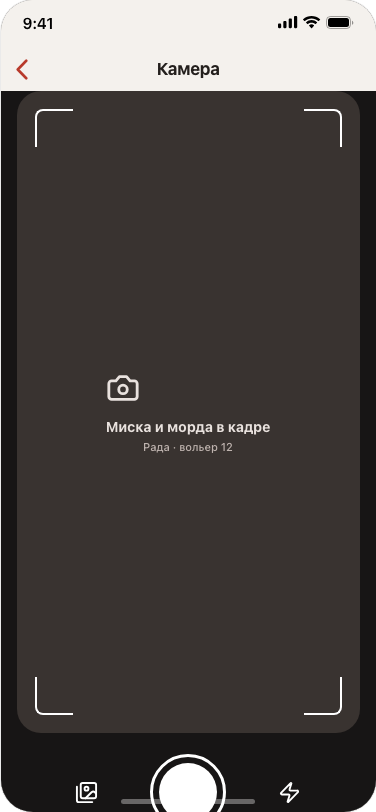
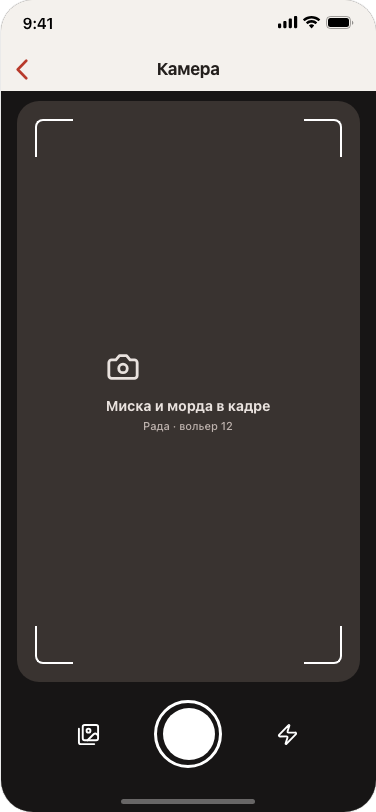
Fix Transfer camera layout

diff --git a/platform/concepts/smena/styles.css b/platform/concepts/smena/styles.css
@@ -34,7 +34,7 @@
 .s-observation-head{padding:4px 2px 17px}.s-observation-head span{color:#895f55;font:var(--s-caption)}.s-observation-head h2{margin-top:5px;font:var(--s-screen-title)}.s-observation-head p{margin-top:4px;color:var(--s-text-secondary);font:var(--s-secondary)}.s-compare{display:grid;grid-template-columns:1fr auto 1fr;gap:12px;align-items:center;padding:17px;border-radius:20px;background:#fff}.s-compare>div{display:grid;gap:4px}.s-compare small{color:var(--s-text-secondary);font:600 10px/14px var(--face)}.s-compare strong{font:750 15px/19px var(--face)}.s-compare>span{color:#aaa19c}.s-compare i{display:block;height:5px;border-radius:4px;background:#6f997b;font-style:normal}.s-compare i.is-low{width:50%;background:var(--s-accent)}.s-observation-note{margin:12px 0 0;padding:17px;border-left:3px solid var(--s-accent);color:#443b37;font:650 15px/21px var(--face)}.s-followup{display:grid;gap:3px;margin-top:12px;padding:15px 17px;border-radius:17px;background:#e8e2de}.s-followup span,.s-followup small{color:var(--s-text-secondary);font:600 10px/14px var(--face)}.s-followup b{font:750 14px/18px var(--face)}
 .s-compare i.is-high{width:92%}
 .s-observation-context{display:grid;grid-template-columns:42px 1fr;gap:10px;align-items:center;margin-bottom:14px}.s-observation-context b,.s-observation-context small{display:block}.s-observation-context b{font:700 14px/18px var(--face)}.s-observation-context small{color:var(--s-text-secondary);font:500 11px/15px var(--face)}.s-note-field{display:grid;gap:7px}.s-note-field>span{color:#895f55;font:var(--s-caption)}.s-note-field textarea{width:100%;height:112px;padding:14px;border:0;border-radius:17px;resize:none;background:#fff;color:var(--s-text);font:650 16px/22px var(--face);box-sizing:border-box}.s-fact-types{margin-top:9px}.s-media-actions{display:grid;grid-template-columns:repeat(3,1fr);gap:7px}.s-media-actions button{display:grid;justify-items:start;min-height:92px;padding:12px;border:0;border-radius:15px;background:#fff;color:inherit;text-align:left}.s-media-actions svg{width:22px;height:22px;color:var(--s-accent)}.s-media-actions span{align-self:end}.s-media-actions b,.s-media-actions small{display:block}.s-media-actions b{font:700 11px/15px var(--face)}.s-media-actions small{color:var(--s-text-secondary);font:500 10px/14px var(--face)}
-.s-camera-screen{background:var(--s-bg)}.s-camera-screen .navbar{background:var(--s-bg);color:var(--s-text)}.s-camera-screen .navbar .title{color:var(--s-text)}.s-camera-body{display:grid;grid-template-rows:1fr 118px;min-height:calc(100% - var(--nav-h));background:#171515;color:#fff}.s-viewfinder{position:relative;display:grid;place-items:center;margin:0 16px 8px;border-radius:24px;background:#393330}.s-viewfinder>div{text-align:center;color:#e9e2de}.s-viewfinder svg{width:34px;height:34px}.s-viewfinder b,.s-viewfinder small{display:block}.s-viewfinder b{margin-top:13px;font:700 14px/18px var(--face)}.s-viewfinder small{margin-top:3px;color:#bfb4af;font:500 11px/15px var(--face)}.s-frame-corner{position:absolute;width:38px;height:38px;border-color:#fff;border-style:solid}.s-frame-corner.c1{left:18px;top:18px;border-width:2px 0 0 2px;border-radius:8px 0 0}.s-frame-corner.c2{right:18px;top:18px;border-width:2px 2px 0 0;border-radius:0 8px 0 0}.s-frame-corner.c3{left:18px;bottom:18px;border-width:0 0 2px 2px;border-radius:0 0 0 8px}.s-frame-corner.c4{right:18px;bottom:18px;border-width:0 2px 2px 0;border-radius:0 0 8px}.s-camera-controls{display:grid;grid-template-columns:1fr 88px 1fr;align-items:center;padding:8px 28px 24px}.s-camera-controls button{display:grid;place-items:center;justify-self:center;width:44px;height:44px;border:0;background:transparent;color:#fff}.s-camera-controls svg{width:23px;height:23px}.s-camera-controls .s-shutter{width:76px;height:76px;border:3px solid #fff;border-radius:50%}.s-shutter i{width:58px;height:58px;border-radius:50%;background:#fff}.s-camera-screen .home-ind{background:#fff}
+.s-camera-screen{background:var(--s-bg)}.s-camera-screen .navbar{background:var(--s-bg);color:var(--s-text)}.s-camera-screen .navbar .title{color:var(--s-text)}.s-camera-body{display:grid;flex:1;min-height:0;grid-template-rows:minmax(0,1fr) calc(96px + var(--safe-bottom));background:#171515;color:#fff}.s-viewfinder{position:relative;display:grid;place-items:center;margin:10px 16px 0;border-radius:22px;background:#393330}.s-viewfinder>div{text-align:center;color:#e9e2de}.s-viewfinder svg{width:34px;height:34px}.s-viewfinder b,.s-viewfinder small{display:block}.s-viewfinder b{margin-top:13px;font:700 14px/18px var(--face)}.s-viewfinder small{margin-top:3px;color:#bfb4af;font:500 11px/15px var(--face)}.s-frame-corner{position:absolute;width:38px;height:38px;border-color:#fff;border-style:solid}.s-frame-corner.c1{left:18px;top:18px;border-width:2px 0 0 2px;border-radius:8px 0 0}.s-frame-corner.c2{right:18px;top:18px;border-width:2px 2px 0 0;border-radius:0 8px 0 0}.s-frame-corner.c3{left:18px;bottom:18px;border-width:0 0 2px 2px;border-radius:0 0 0 8px}.s-frame-corner.c4{right:18px;bottom:18px;border-width:0 2px 2px 0;border-radius:0 0 8px}.s-camera-controls{display:grid;grid-template-columns:1fr 80px 1fr;align-items:center;padding:8px 28px var(--safe-bottom)}.s-camera-controls button{display:grid;place-items:center;justify-self:center;width:44px;height:44px;border:0;background:transparent;color:#fff}.s-camera-controls svg{width:23px;height:23px}.s-camera-controls .s-shutter{width:68px;height:68px;border:3px solid #fff;border-radius:50%}.s-shutter i{width:52px;height:52px;border-radius:50%;background:#fff}.s-camera-screen .home-ind{background:#fff}
 .s-library-head{display:flex;justify-content:space-between;align-items:end;padding:4px 2px 14px}.s-library-head span{color:#895f55;font:var(--s-caption)}.s-library-head h2{margin-top:4px;font:750 19px/23px var(--face)}.s-library-head strong{color:var(--s-accent);font:700 11px/15px var(--face)}.s-photo-grid{display:grid;grid-template-columns:repeat(3,1fr);gap:3px}.s-photo-grid button{position:relative;aspect-ratio:1;border:0;background:#d8cdc4;color:#5e5652}.s-photo-grid button:nth-child(2),.s-photo-grid button:nth-child(6){background:#c5b7ad}.s-photo-grid button:nth-child(3),.s-photo-grid button:nth-child(4){background:#ded4cc}.s-photo-grid button span{position:absolute;left:8px;bottom:7px;padding:3px 6px;border-radius:7px;background:rgba(35,31,29,.72);color:#fff;font:650 9px/12px var(--face)}.s-photo-grid button i{position:absolute;right:7px;top:7px;display:grid;place-items:center;width:22px;height:22px;border-radius:50%;background:var(--s-accent);color:#fff;font:700 12px/1 var(--face);font-style:normal}.s-photo-grid button.is-selected:after{content:"";position:absolute;inset:0;border:3px solid var(--s-accent)}.s-selected-photo{display:flex;align-items:center;justify-content:space-between;margin-top:13px;padding:13px 2px}.s-selected-photo b,.s-selected-photo small{display:block}.s-selected-photo b{font:700 13px/17px var(--face)}.s-selected-photo small{color:var(--s-text-secondary);font:500 11px/15px var(--face)}.s-selected-photo button{min-height:40px;padding:0 16px;border:0;border-radius:13px;background:var(--s-accent);color:#fff;font:700 13px/17px var(--face)}
 .s-recorder{text-align:center;padding:10px 0 18px}.s-recorder>span{color:#895f55;font:var(--s-caption)}.s-mic-orb{display:grid;place-items:center;width:90px;height:90px;margin:30px auto 15px;border-radius:50%;background:var(--s-accent);color:#fff;box-shadow:0 0 0 12px var(--s-accent-soft)}.s-mic-orb svg{width:35px;height:35px}.s-recorder>strong{font:750 28px/32px var(--mono)}.s-wave{display:flex;align-items:center;justify-content:center;gap:4px;height:42px;margin-top:8px}.s-wave i{width:3px;border-radius:3px;background:#c7bbb5;font-style:normal}.s-wave i:nth-child(1),.s-wave i:nth-child(9){height:8px}.s-wave i:nth-child(2),.s-wave i:nth-child(8){height:16px}.s-wave i:nth-child(3),.s-wave i:nth-child(7){height:25px}.s-wave i:nth-child(4),.s-wave i:nth-child(6){height:34px}.s-wave i:nth-child(5){height:20px}.s-recorder p{color:var(--s-text-secondary);font:500 12px/17px var(--face)}.s-record-action{display:grid;grid-template-columns:38px 1fr;column-gap:10px;align-items:center;width:100%;min-height:62px;padding:11px 14px;border:0;border-radius:17px;background:#302a27;color:#fff;text-align:left}.s-record-action>span{grid-row:1/3;width:38px;height:38px;border-radius:50%;background:var(--s-accent)}.s-record-action b{align-self:end;font:700 13px/17px var(--face)}.s-record-action small{align-self:start;color:#cfc6c1;font:500 11px/15px var(--face)}
 .s-sync-status{display:grid;grid-template-columns:54px 1fr;gap:13px;align-items:center;padding:16px;border-radius:20px;background:#dfece3;color:#365944}.s-sync-status svg{width:42px;height:42px}.s-sync-status span{font:600 10px/14px var(--face)}.s-sync-status h2{margin-top:2px;font:750 19px/23px var(--face)}.s-sync-status p{margin-top:1px;color:#5f7b68;font:500 11px/15px var(--face)}.s-sync-queue{margin:14px 0}.s-sync-queue>div{display:grid;grid-template-columns:10px 1fr;gap:11px;padding:10px 2px}.s-sync-queue>div>span{width:9px;height:9px;margin-top:5px;border-radius:50%;background:#c9c1bd}.s-sync-queue>div>span.is-ready{background:#5f9870}.s-sync-queue>div>span.is-working{background:#d49c43}.s-sync-queue b,.s-sync-queue small{display:block}.s-sync-queue b{font:700 13px/17px var(--face)}.s-sync-queue small{margin-top:2px;color:var(--s-text-secondary);font:500 11px/15px var(--face)}
